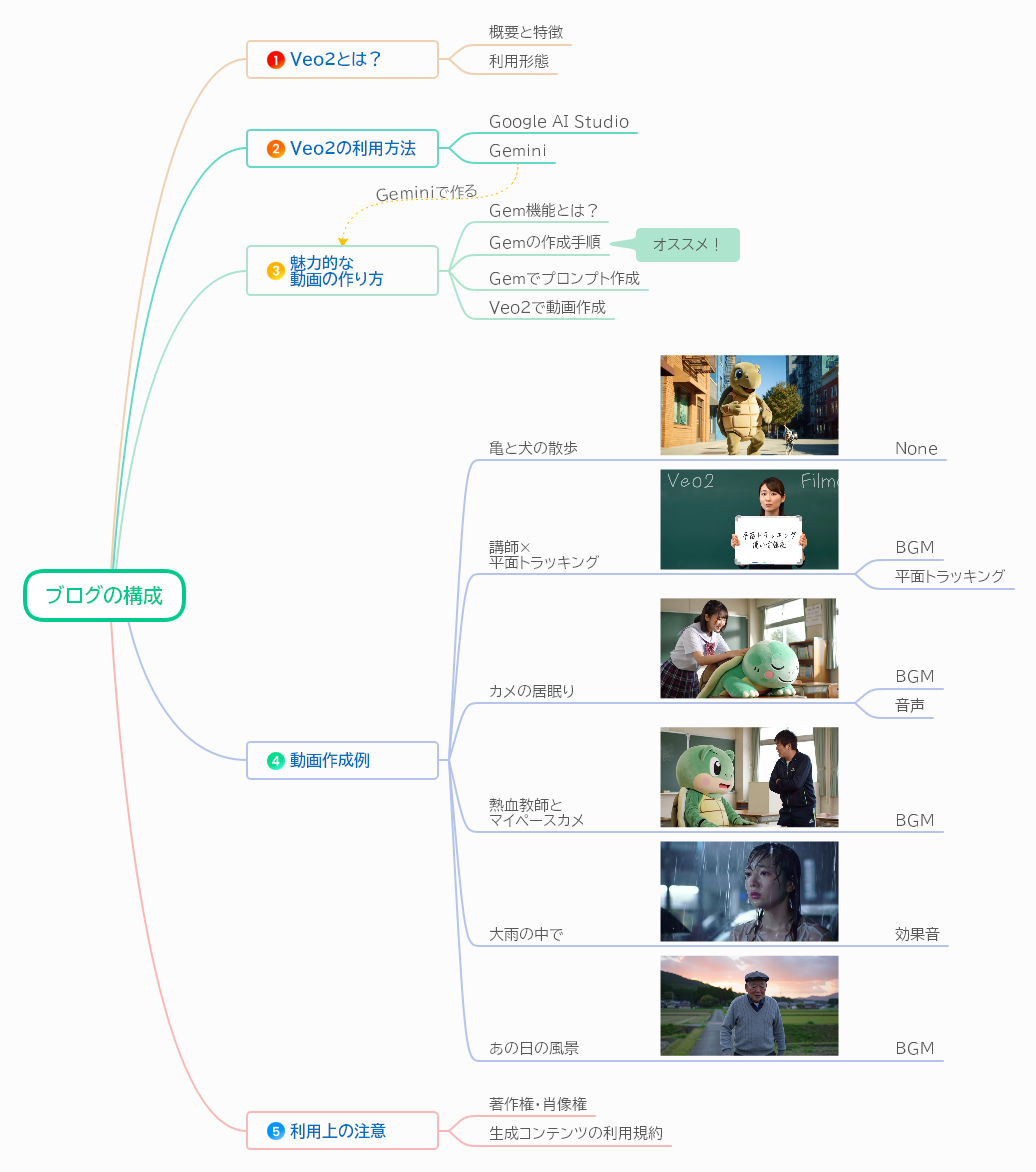
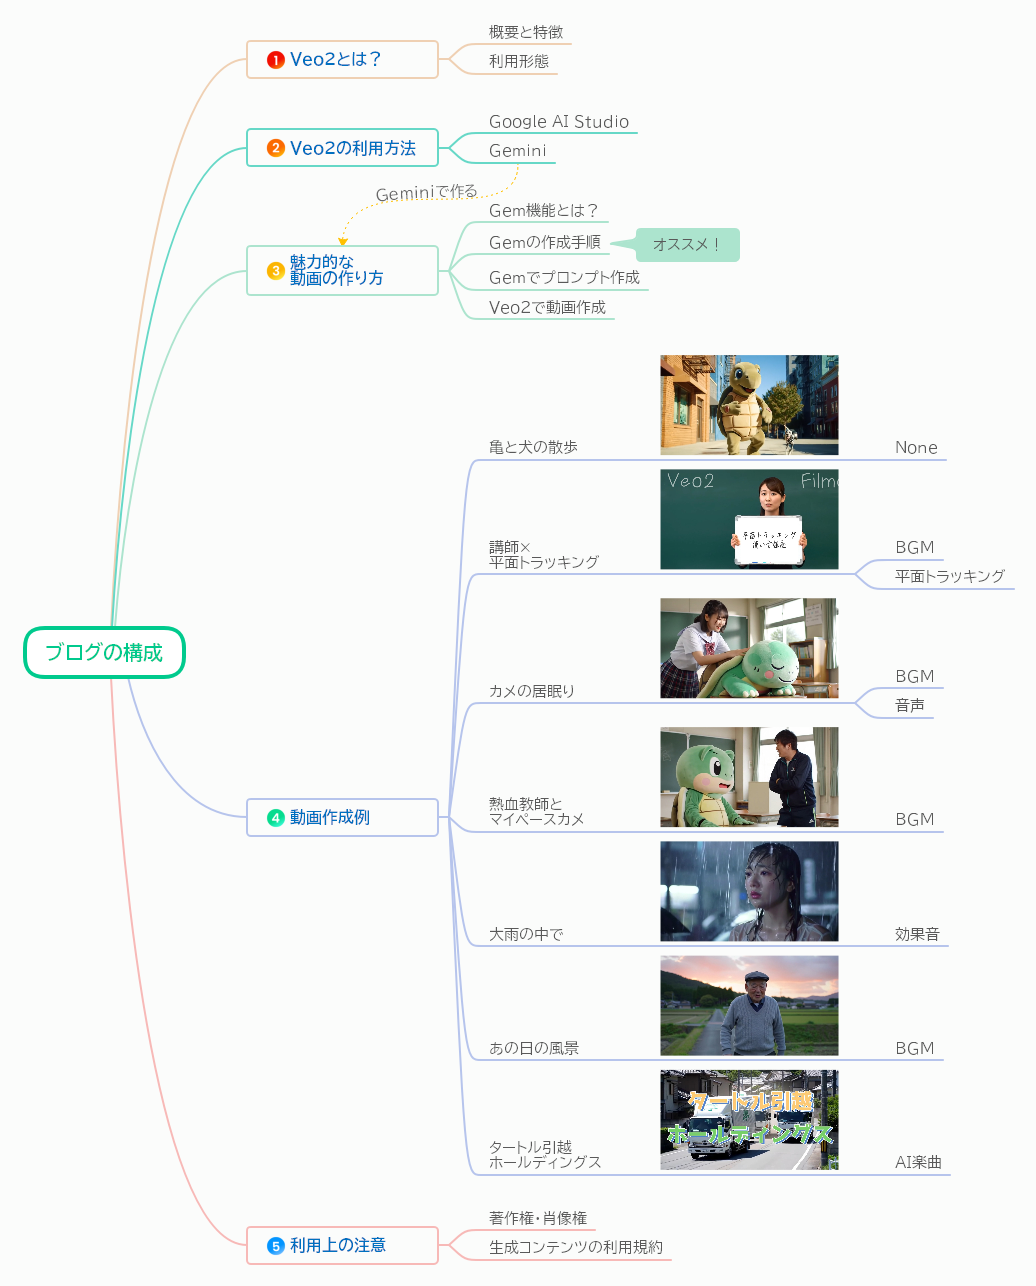
動画追加

diff --git a/articles/turtle-20250417-veo2.md b/articles/turtle-20250417-veo2.md
@@ -277,6 +277,18 @@ https://www.youtube.com/watch?v=04ZabBsUh5c
 
 https://www.youtube.com/watch?v=57yG4IlRM_A
 
+**例6：CM風動画「タートル引越ホールディングス」**
+引越業者さんらしからぬ楽曲にのせて、ちょっと強引にCM風動画を作ってみました🤣テキストからの生成だとどうしてもキャラクターの一貫性を保つのが難しいですが、それでも帽子や制服の色を合わせるくらいはできます。あまり、こだわらずラフに作ると良いと思います。
+ちなみに、作中に出てくるオートミールは大の好物です🤤
+
+この動画は次のツールを利用して作成しています。
+
+動画生成AI：Google Veo2
+編集ソフト：Filmora
+BGM（音楽AI）: Suno
+
+https://www.youtube.com/watch?v=MXeCXVXUV0w
+
 ## 利用上の注意点
 
 AIによる動画生成は非常に強力なツールですが、利用にあたっては以下の点に注意が必要です。
@@ -321,8 +333,15 @@ https://zenn.dev/safubuki/articles/turtle-20240223-gitcopilot
 更新履歴は折りたたみ表示にしています。
 確認したい場合は、以下のバーをクリック（タップ）してください。
 
-:::details 更新履歴（最終更新日：2025/04/18）
+:::details 更新履歴（最終更新日：2025/04/22）
 **更新履歴**
+
+- **2025/04/22**
+  「タートル引越ホールディングス」動画追加。
+
+- **2025/04/18**
+  GeminiのVeo2利用上限についてコメント追加。
+  誤記修正
 
 - **2025/04/17**
   Google AI Studioの画像から動画作成のOK/NG画像例追加しました。
@@ -331,8 +350,4 @@ https://zenn.dev/safubuki/articles/turtle-20240223-gitcopilot
   Geminiが上限に達したときの表示画像を追加しました。
   Google AI Studioが上限に達したときの表示画像を追加しました。
   誤記修正を行いました。
-
-- **2025/04/18**
-  GeminiのVeo2利用上限についてコメント追加。
-  誤記修正
 :::
